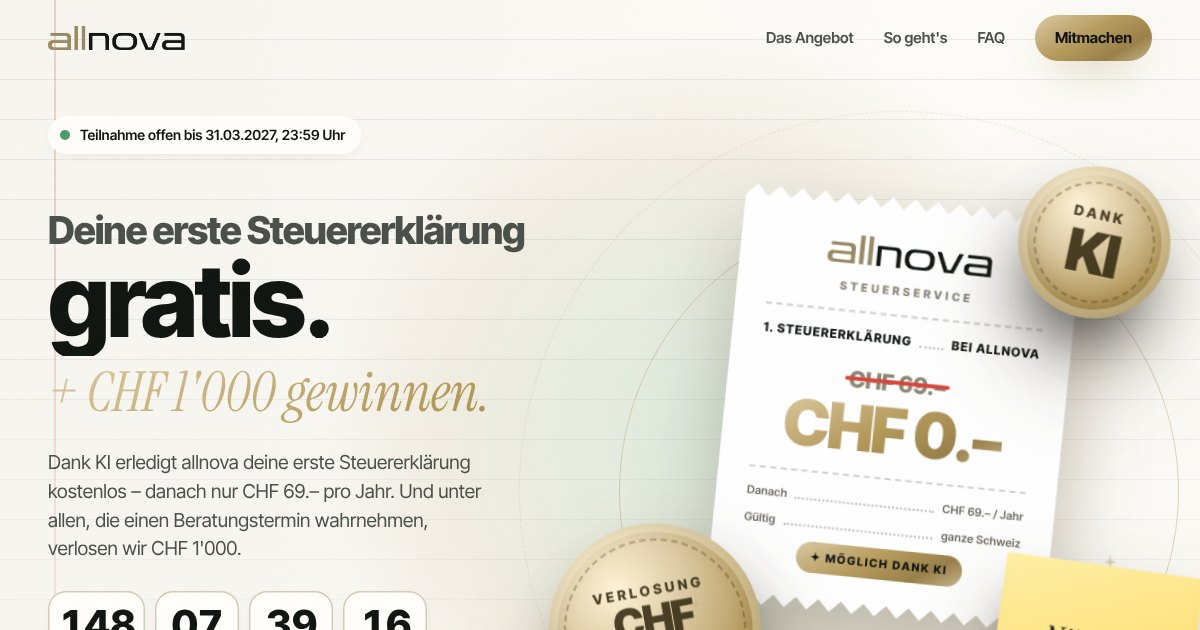
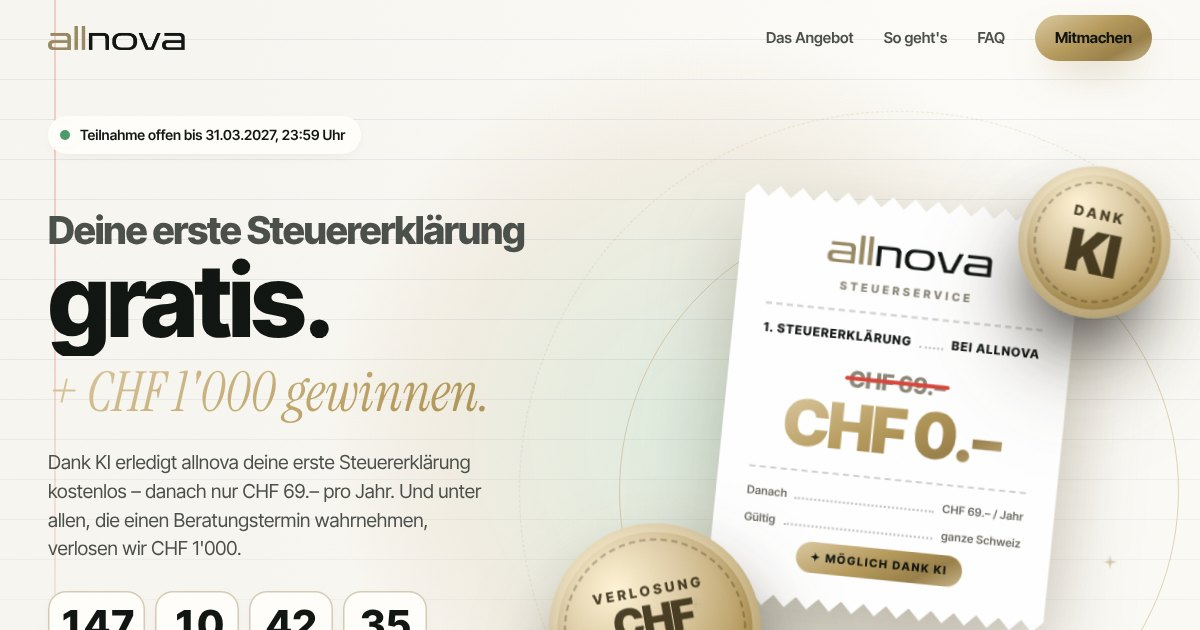
Steuer-Seite: Post-it im Kopfbereich entfernt
Claude-Session: https://claude.ai/code/session_01EPwibJ8KXm8GrN7qt8Mmr4

diff --git a/web/assets/css/kampagne.css b/web/assets/css/kampagne.css
@@ -29,7 +29,7 @@
 .coin small { font-size: 13px; font-weight: 800; letter-spacing: .24em; text-transform: uppercase; }
 .coin b { font-size: 46px; font-weight: 900; letter-spacing: -.04em; line-height: .95; }
 
-/* ---------------- Steuern: Beleg, Siegel, Münze, Post-it ---------------- */
+/* ---------------- Steuern: Beleg, Siegel, Münze ---------------- */
 .art-receipt { left: -170px; top: -270px; width: 330px; transform: translateZ(40px) rotate(4deg); filter: drop-shadow(0 50px 50px rgba(0, 0, 0, .55)); }
 .art-receipt .paper-zig { position: absolute; inset: 0; }
 .art-receipt .in { position: relative; padding: 40px 30px 36px; color: var(--ink); display: grid; gap: 10px; }
@@ -48,11 +48,6 @@
 .art-seal b { font-size: 54px; }
 .art-coin { left: -330px; top: 30px; width: 200px; height: 200px; transform: translateZ(80px) rotate(-10deg); }
 .art-coin b { font-size: 40px; }
-.art-note { left: 90px; top: 70px; width: 190px; height: 190px; padding: 22px 18px; display: grid; place-items: center; text-align: center; transform: translateZ(60px) rotate(8deg);
-  background: linear-gradient(160deg, #fff0a6 0%, #ffe27a 55%, #f4d25c 100%); color: #26261f; font-family: var(--serif); font-style: italic; font-size: 34px; line-height: 1;
-  box-shadow: 0 30px 40px -20px rgba(0, 0, 0, .6), inset 0 -24px 30px -24px rgba(160, 120, 20, .35); }
-.art-note s { text-decoration: none; position: relative; }
-.art-note .x { position: absolute; left: 10%; right: 10%; top: 50%; height: 5px; border-radius: 3px; background: #d8443a; transform: rotate(-12deg); }
 
 /* ---------------- Bürgenstock: Gutschein über dem See ---------------- */
 .hero-scene { position: absolute; left: 0; right: 0; bottom: 0; height: 48%; pointer-events: none; opacity: .75;
@@ -131,7 +126,7 @@
 .page-steuern .hero-title .l2 { color: var(--ink); }
 .page-steuern .stage-ring { border-color: rgba(182, 154, 92, .4); }
 .page-steuern .stage-ring--2 { border-color: rgba(182, 154, 92, .22); }
-.page-steuern .art-receipt, .page-steuern .art-note, .page-steuern .coin { filter: drop-shadow(0 40px 40px rgba(60, 48, 20, .28)); }
+.page-steuern .art-receipt, .page-steuern .coin { filter: drop-shadow(0 40px 40px rgba(60, 48, 20, .28)); }
 .page-steuern .art-receipt .paper-zig { background: #fff; }
 .page-steuern .tile--wide .ic, .page-steuern .ig-hint svg { background: linear-gradient(160deg, #bfe5c9, #2f9a5e); color: #fff; }
 .page-steuern .check-card li svg { color: var(--sun-1); }

diff --git a/web/steuern/index.html b/web/steuern/index.html
@@ -86,7 +86,6 @@
                 <span class="pill">✦ Möglich dank KI</span>
               </div>
             </div></div>
-            <div class="art art-note" data-art><span><s>Nächstes Wochenende.<i class="x" data-strike></i></s></span></div>
             <div class="art art-coin coin" data-art><small>Verlosung</small><b>CHF<br>1'000</b></div>
             <div class="art art-seal coin" data-art data-stamp><small>Dank</small><b>KI</b></div>
           </div>
